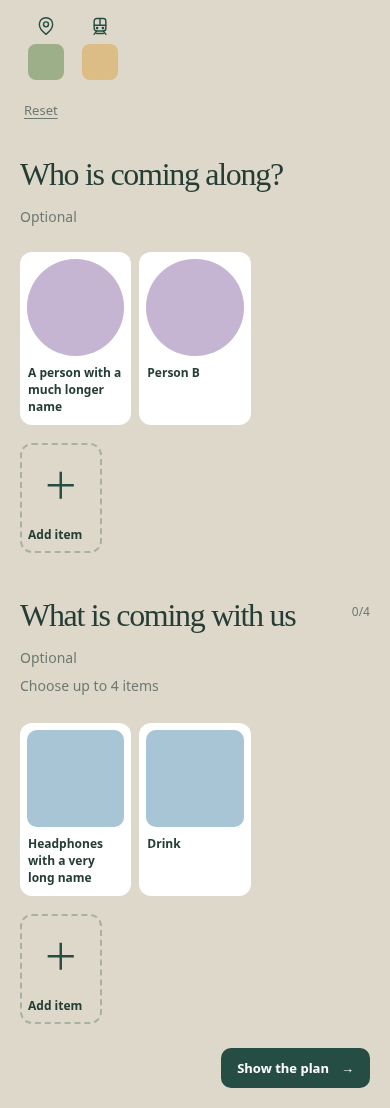
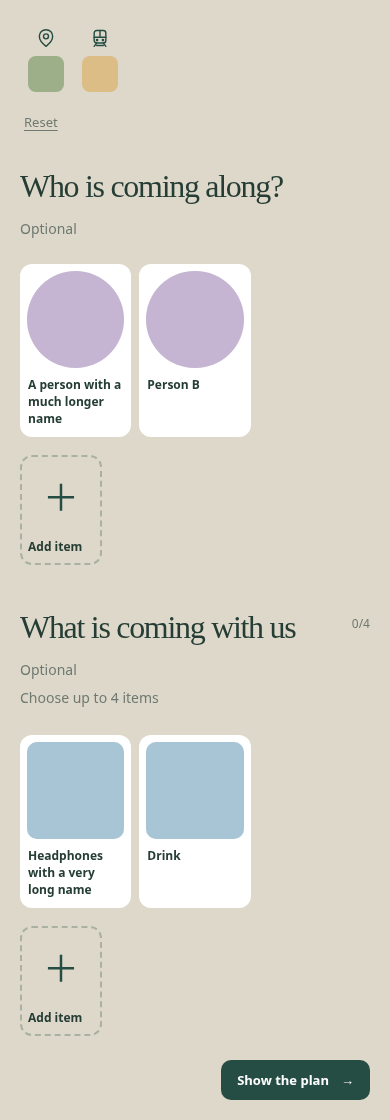
Reduce branding and add safe top spacing in v1.0.36

diff --git a/transition_cues/transition-cues-web/style.css b/transition_cues/transition-cues-web/style.css
@@ -77,11 +77,14 @@
 .planner-header+#planStep[data-step="0"]>.wizard-heading{margin-bottom:12px}
 
 /* Larger branding fills the opening header while preserving heading alignment. */
-.planner-header:not(.selection-header){padding-top:12px;padding-bottom:36px}.brand{font-size:38px;line-height:1.1;gap:18px}.brand img{width:84px;height:84px;flex:none;border-radius:20px}.brand small{font-size:22px;line-height:1.3;letter-spacing:.6px;margin-top:8px}
-@media(max-width:620px){.brand{font-size:32px;gap:10px}.brand img{width:72px;height:72px}.brand small{margin-top:6px}.planner-header:not(.selection-header){padding-top:16px;padding-bottom:44px}}
-@media(max-width:380px){.brand{font-size:clamp(24px,7.5vw,28px);gap:10px}.brand img{width:clamp(56px,16vw,64px);height:clamp(56px,16vw,64px)}.brand small{font-size:18px;margin-top:5px}}
+.planner-header:not(.selection-header){padding-top:12px;padding-bottom:36px}.brand{font-size:22.8px;line-height:1.1;gap:10.8px}.brand img{width:50.4px;height:50.4px;flex:none;border-radius:12px}.brand small{font-size:13.2px;line-height:1.3;letter-spacing:.36px;margin-top:4.8px}
+@media(max-width:620px){.brand{font-size:19.2px;gap:6px}.brand img{width:43.2px;height:43.2px}.brand small{margin-top:3.6px}.planner-header:not(.selection-header){padding-top:16px;padding-bottom:44px}}
+@media(max-width:380px){.brand{font-size:clamp(14px,4.5vw,16.8px);gap:6px}.brand img{width:clamp(33.6px,9.6vw,38.4px);height:clamp(33.6px,9.6vw,38.4px)}.brand small{font-size:10.8px;margin-top:3px}}
 
 /* Reserve space for the cog rather than wrapping it beneath wider system fonts. */
 .planner-header:not(.selection-header){display:grid;grid-template-columns:minmax(0,1fr) 44px;column-gap:12px}.planner-header .brand,.planner-header .brand>span{min-width:0}.planner-header .brand>span{white-space:nowrap}
-@media(max-width:620px){.brand{font-size:clamp(26px,7.3vw,32px)}}
-@media(max-width:380px){.brand{font-size:clamp(20px,6.5vw,24px)}.brand small{font-size:clamp(16px,4.7vw,18px)}}
+@media(max-width:620px){.brand{font-size:clamp(15.6px,4.38vw,19.2px)}}
+@media(max-width:380px){.brand{font-size:clamp(12px,3.9vw,14.4px)}.brand small{font-size:clamp(9.6px,2.82vw,10.8px)}}
+
+/* Keep content below native status-bar/scroll-edge effects, including standalone PWAs. */
+:root{--top-clearance:calc(env(safe-area-inset-top,0px) + 12px)}.shell{padding-top:var(--top-clearance)}.locked{padding-top:calc(4vh + var(--top-clearance))}.locked:is(.has-items,.has-people){padding-top:calc(2vh + var(--top-clearance))}#planDialog{padding-top:calc(clamp(24px,6vw,72px) + var(--top-clearance))}dialog:not(#planDialog){position:fixed;inset:var(--top-clearance) 0 12px;max-height:calc(100dvh - var(--top-clearance) - 24px);margin:auto;overflow-y:auto}

diff --git a/tests/browser_display.py b/tests/browser_display.py
@@ -31,8 +31,8 @@ def run(engine):
                     page.set_viewport_size({'width':width,'height':height})
                     brand=page.locator('.brand').bounding_box();nav=page.locator('.nav').bounding_box()
                     assert brand['x']+brand['width']<=nav['x']+1,(width,brand,nav)
-                    assert page.locator('.brand img').bounding_box()['width']>=56
-                    assert nav['y']>=brand['y']-1 and nav['y']+nav['height']<=brand['y']+brand['height']+1,(width,brand,nav)
+                    assert page.locator('.brand img').bounding_box()['width']>=33.5
+                    assert abs(nav['y']+nav['height']/2-brand['y']-brand['height']/2)<1,(width,brand,nav)
                     assert page.evaluate('document.documentElement.scrollWidth<=innerWidth')
 
                 expect(page.get_by_role('link',name='Picture library',exact=True)).to_have_count(0)

diff --git a/tests/container_smoke.py b/tests/container_smoke.py
@@ -81,5 +81,5 @@ print('PASS: replacement container preserves library and images in /data')
 
 if __name__ == '__main__':
     parser = argparse.ArgumentParser()
-    parser.add_argument('--image', default='transition-cues-ha-check:1.0.35')
+    parser.add_argument('--image', default='transition-cues-ha-check:1.0.36')
     run(parser.parse_args().image)

diff --git a/transition_cues/DOCS.md b/transition_cues/DOCS.md
@@ -20,7 +20,7 @@ ReadySteady uses **Transition Cues** as its subtitle. Updating from the former T
 
 ## Add to your Home Screen or Dock
 
-The app includes Apple touch icons and a web app manifest with regular and maskable PNG icons, all using the supplied zoomed green mitten artwork on its ivory background. The app uses a warm neutral page background (#ded8ca).
+The app includes Apple touch icons and a web app manifest with regular and maskable PNG icons, all using the supplied zoomed green mitten artwork on its ivory background. The app uses a warm neutral page background (#ded8ca). Content includes top safe-area spacing and a small extra inset to avoid native status-bar and scroll-edge effects in installed apps. Native iOS blur effects are controlled by the operating system.
 
 - **iPhone/iPad:** open the app’s address in Safari, choose **Share → Add to Home Screen**, and enable **Open as Web App** if that option appears.
 - **Mac:** open the address in Safari, then choose **File → Add to Dock** (macOS Sonoma or later). See [Apple’s instructions](https://support.apple.com/104996).

diff --git a/transition_cues/CHANGELOG.md b/transition_cues/CHANGELOG.md
@@ -1,5 +1,10 @@
 # Changelog
 
+## 1.0.36
+
+- Reduce the opening logo, title and subtitle by 40%.
+- Add top safe-area spacing plus a small inset across planner, photo management, journey display and dialogs to keep content clear of native PWA top effects.
+
 ## 1.0.35
 
 - Keep the enlarged brand and cog on one line with wider system fonts on narrow phones.
